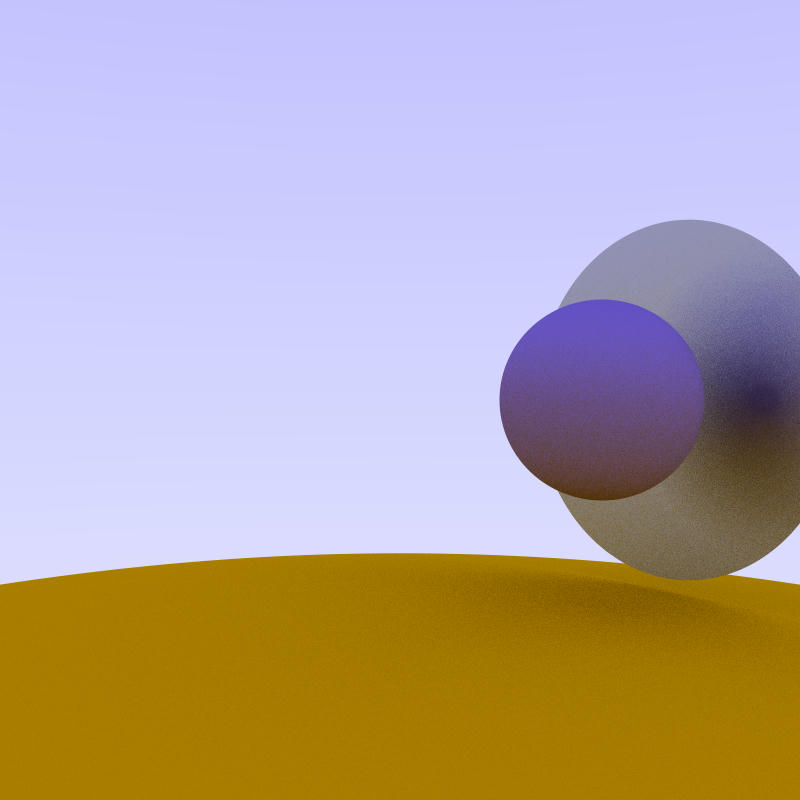
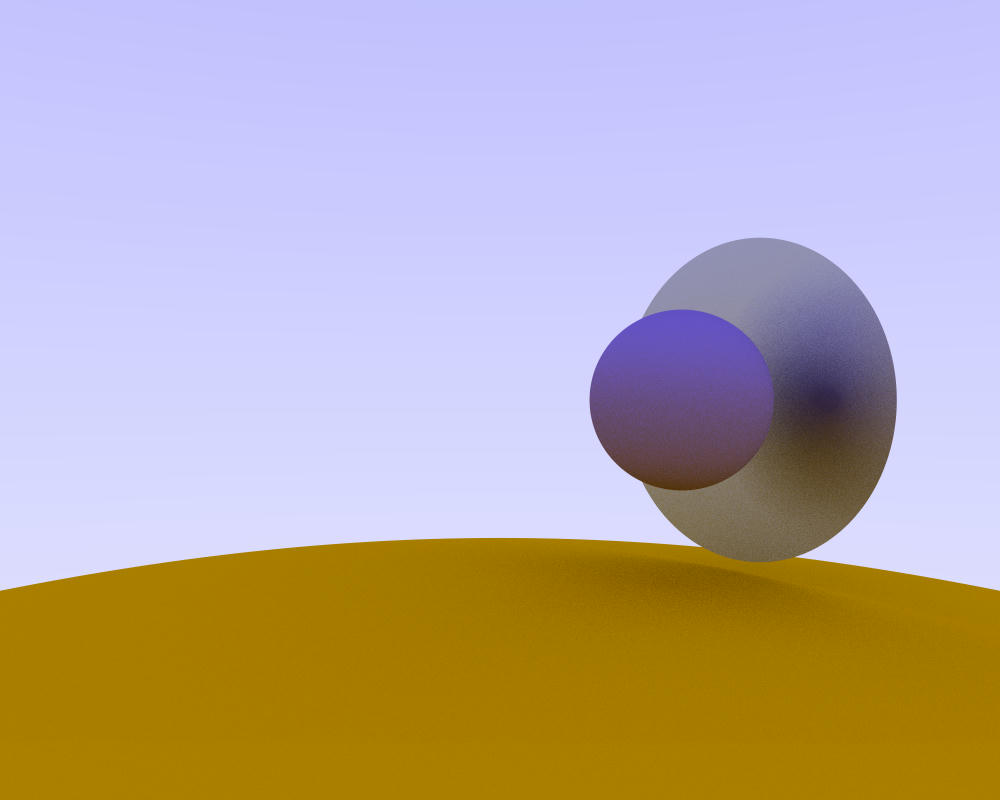
Modified README, changed Demo render

Changed region(s): [[0.0938, 0.25, 1.0, 0.7812], [0.0, 0.7188, 0.0625, 0.75]]

diff --git a/src/main.rs b/src/main.rs
@@ -17,7 +17,7 @@ fn main() {
 
 
 fn get_world(t:f64)->World{
-    let (hres, vres, s,samples) = (800, 800, 1.0 / (200.0+t/5.0),64);
+    let (hres, vres, s,samples) = (1000, 800, 1.0 / (180.0+t/5.0),128);
     let metallic1 = Rc::new(MetallicMaterial::new(RGBColor::new(0.5, 0.5, 0.5), 0.5*t.sin()+0.5));
     let metallic2 = Rc::new(MetallicMaterial::new(RGBColor::new(1.0, 1.0, 1.0), 0.0));
     let diffuse1 = Rc::new(LambertianMaterial::new(RGBColor::new(0.3, 0.2, 0.6)));

diff --git a/README.md b/README.md
@@ -2,4 +2,11 @@
 ![Rendered image](render/img000000.jpeg)
 * CPU based raytracing demo in rust.
 * Basic video rendering using ffmpeg (see render/rendervid)
-* Based on https://bheisler.github.io/post/writing-raytracer-in-rust-part-1/ .
+* Based on https://bheisler.github.io/post/writing-raytracer-in-rust-part-1/ 
+* Multithreading support to distribute computation across all CPU cores
+* Antialiasing
+
+# Usage
+* Download repository
+* Run `cargo run` in the repository root.
+
